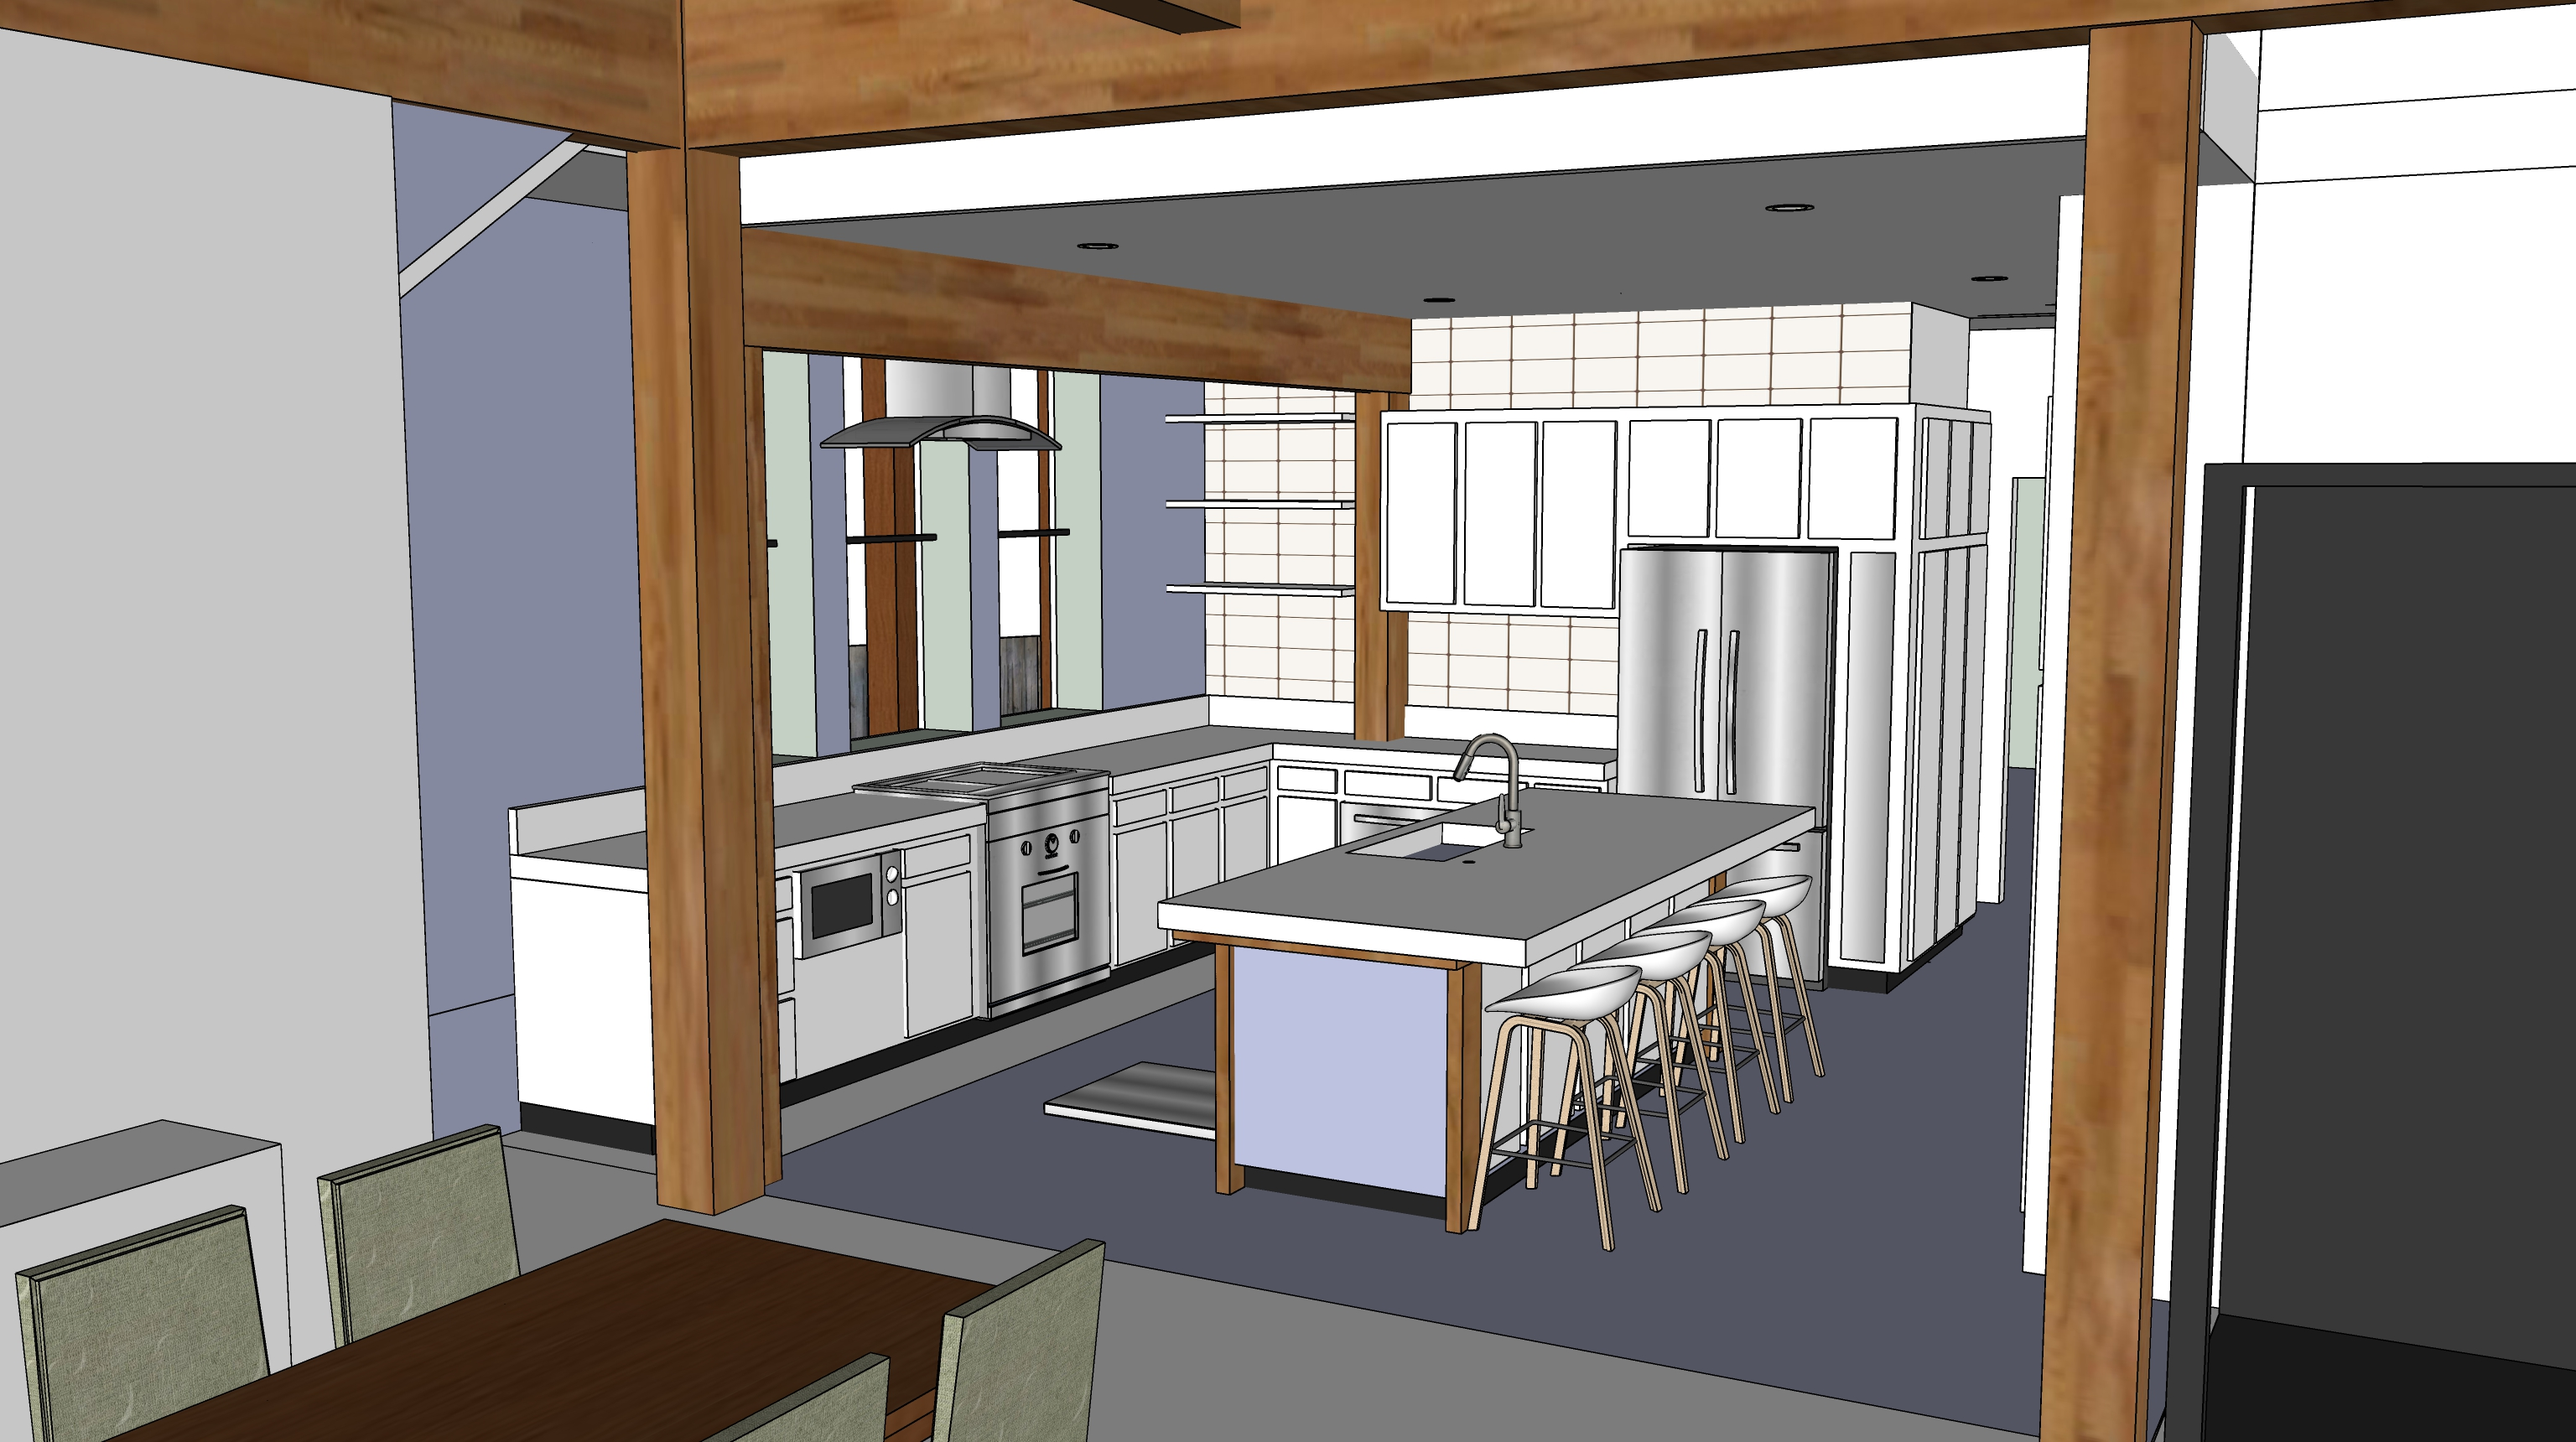
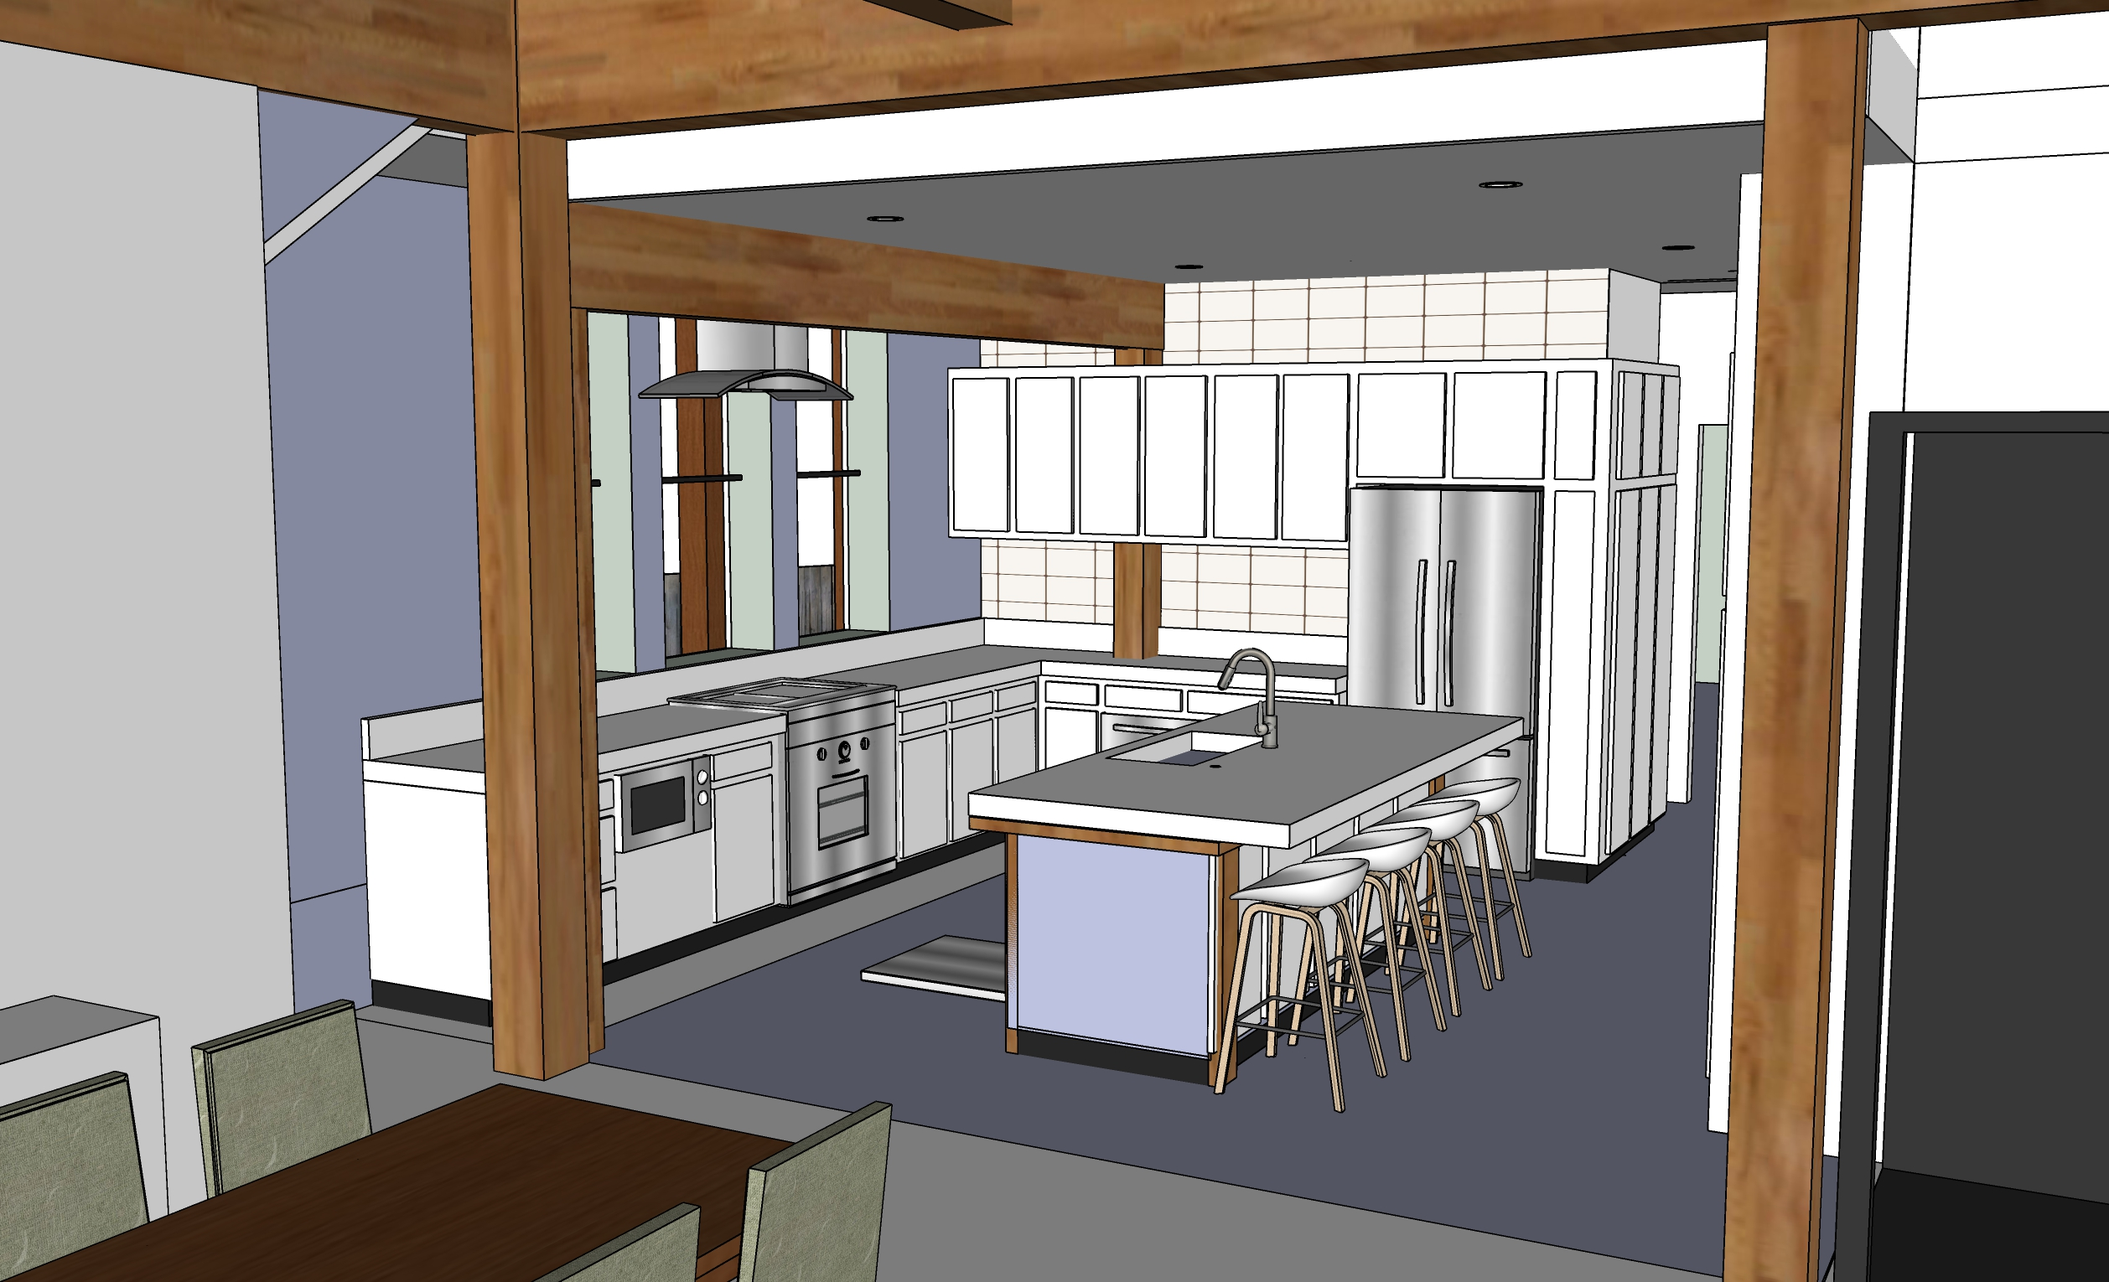
kitchen

diff --git a/kitchen/README.md b/kitchen/README.md
@@ -5,9 +5,9 @@
 
 Resides in location of current kitchen. Window wall moved 3' north. Pantry removed. Cabinets added to south side.
 
+<!--
 <a href="img/kitchen.jpg"><img src="img/kitchen.jpg" style="width:100%; max-width: 1200px"></a><br><br>
-
-<a href="img/kitchen-cabinets.jpg"><img src="img/kitchen-cabinets.jpg" style="width:100%; max-width: 1200px"></a><br>
+-->
 
 <a href="img/kitchen-full-cabinets.jpg"><img src="img/kitchen-full-cabinets.jpg" style="width:100%; max-width: 1200px"></a><br>
 
